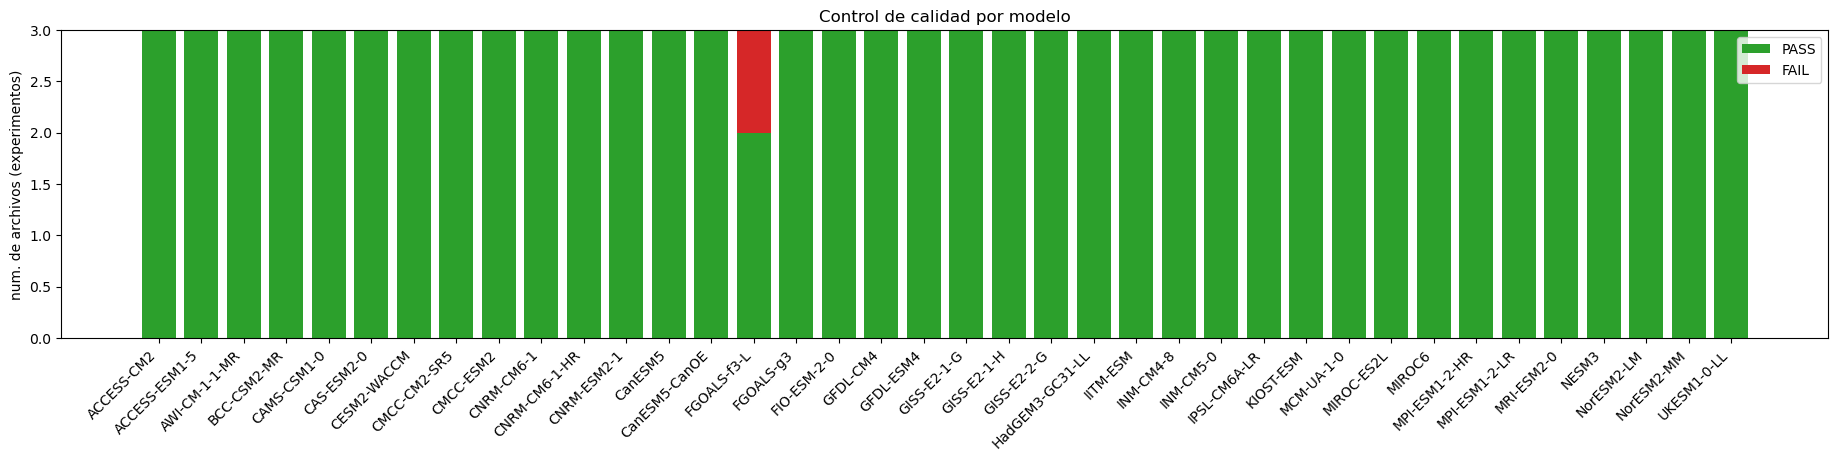
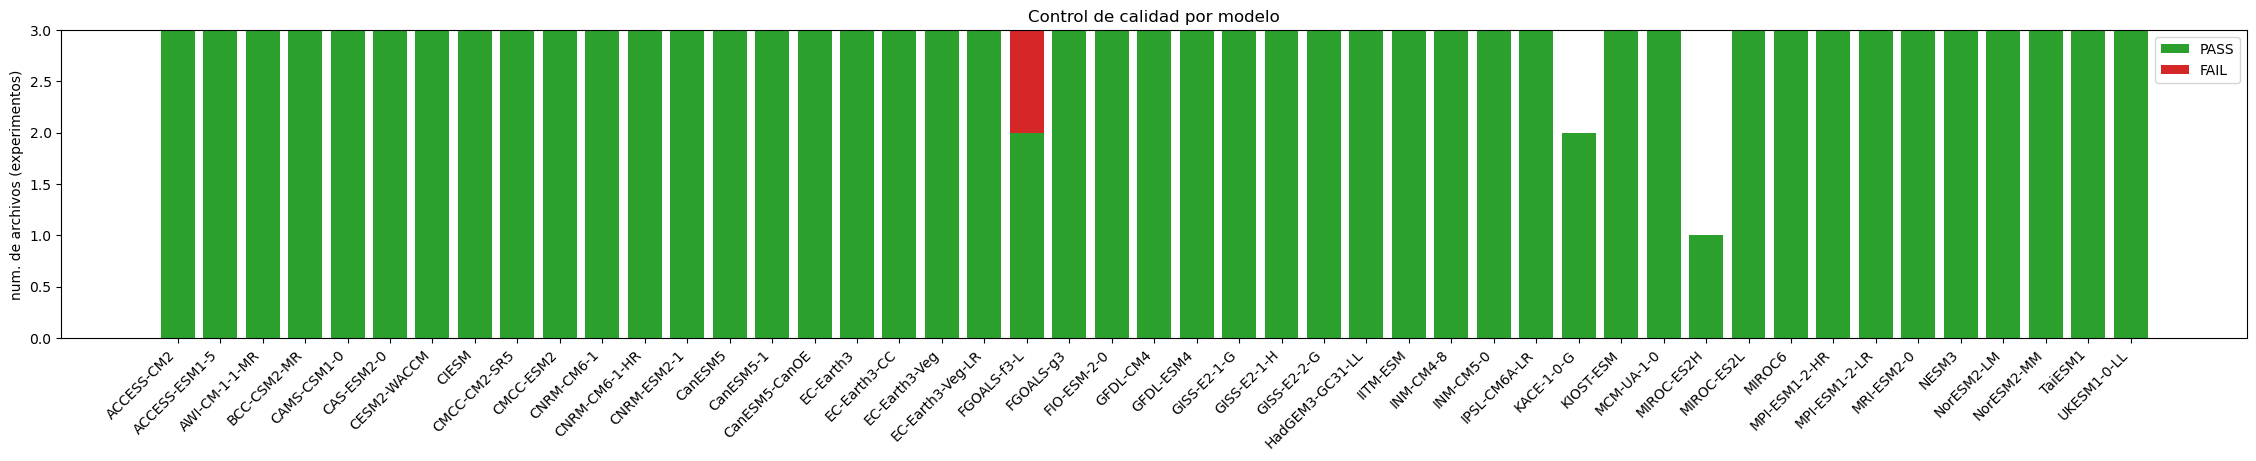
Reporte de estado por corrida, guardia contra descargas duplicadas, y fix de reprocesamiento espurio
run.sh ahora, en cada corrida (sin importar STEP_FROM/STEP_TO), escribe
logs/run_report_<timestamp>.txt con: modelos completamente descargados,
con descarga parcial, ya procesados, descargados-pero-sin-procesar, y
pendientes via fuentes alternativas (no_encontrado / copernicus_parcial).

El paso 02 se invoca via scripts/run_download_if_idle.sh: si ya hay una
descarga corriendo en otro proceso, no lanza otra -- se puede correr
run.sh mientras una descarga anterior sigue en curso sin duplicarla.

Dos fixes de fondo:
- 02_download_cmip6_chunks.sh: el chequeo de idempotencia verificaba
  solo que el archivo existiera ([-f]), no que tuviera contenido. Un
  wget interrumpido a la fuerza podia dejar un .nc de 0 bytes que
  quedaba marcado como "ya descargado" para siempre. Ahora usa [-s]
  (existe y no esta vacio).
- 04_process_to_common_grid.sh: por defecto (sin MODELS explicito) solo
  procesa modelos 'complete=True' del catalogo. Antes procesaba
  cualquier carpeta bajo data/raw/cmip6/, incluyendo descargas
  parciales via Copernicus (CESM2, CMCC-CM2-HR4) que nunca podran
  seleccionarse por faltarles al menos un experimento, y que ademas
  abortaban el pipeline entero por venir con metadatos de malla
  incompletos ('Unsupported generic coordinates').

Probado de punta a punta: run.sh 04 07 sin ningun filtro manual corre
limpio (45/45 modelos completos procesados, 0 reprocesos, reporte
generado al final).

diff --git a/scripts/generate_status_report.py b/scripts/generate_status_report.py
@@ -1,0 +1,87 @@
+#!/usr/bin/env python3
+"""Genera un reporte de estado en texto plano al final de cada corrida
+de run.sh (paso final, se ejecuta siempre, sin importar STEP_FROM/
+STEP_TO). Deja constancia de que modelos ya estan descargados,
+descargados-pero-sin-procesar, procesados, y pendientes via fuentes
+alternativas -- para no tener que adivinar el estado del pipeline entre
+corridas.
+
+Uso:
+    generate_status_report.py <catalog_csv> <raw_dir> <interim_dir>
+        <masked_dir> <out_txt> <start_ts> <end_ts> [--downloading]
+"""
+import csv
+import sys
+from pathlib import Path
+
+EXPS = ("historical", "ssp245", "ssp585")
+
+
+def main() -> None:
+    (catalog_csv, raw_dir, _interim_dir, masked_dir,
+     out_txt, start_ts, end_ts) = sys.argv[1:8]
+    downloading = "--downloading" in sys.argv[8:]
+
+    with open(catalog_csv, newline="") as f:
+        rows = list(csv.DictReader(f))
+
+    complete_models = sorted(r["model"] for r in rows if r.get("complete") == "True")
+    no_encontrado = sorted(r["model"] for r in rows if r.get("fuente") == "no_encontrado")
+    copernicus_parcial = sorted(r["model"] for r in rows if r.get("fuente") == "copernicus_parcial")
+
+    downloaded_full, downloaded_partial, not_downloaded = [], [], []
+    for model in complete_models:
+        model_dir = Path(raw_dir) / model
+        n_present = sum(
+            1 for exp in EXPS
+            if (model_dir / exp).is_dir() and any((model_dir / exp).glob("*.nc"))
+        )
+        if n_present == len(EXPS):
+            downloaded_full.append(model)
+        elif n_present > 0:
+            downloaded_partial.append(model)
+        else:
+            not_downloaded.append(model)
+
+    masked_dir_path = Path(masked_dir)
+    processed = []
+    pending_process = []
+    for model in downloaded_full:
+        n_masked = sum(1 for exp in EXPS if (masked_dir_path / f"tos_{model}_{exp}.nc").exists())
+        if n_masked == len(EXPS):
+            processed.append(model)
+        else:
+            pending_process.append(model)
+
+    def section(title: str, items: list[str]) -> list[str]:
+        out = [f"{title}: {len(items)}"]
+        out += [f"  {m}" for m in items]
+        out.append("")
+        return out
+
+    lines = [
+        "Reporte de estado -- run.sh",
+        f"Inicio: {start_ts}",
+        f"Fin:    {end_ts}",
+        "",
+        f"Descarga ya en curso en otro proceso al momento de esta corrida (no se lanzo otra): {'SI' if downloading else 'NO'}",
+        "",
+    ]
+    lines += section("Modelos completamente descargados (3/3 experimentos)", downloaded_full)
+    lines += section("Modelos con descarga parcial (1-2 de 3 experimentos)", downloaded_partial)
+    lines += section("Modelos descargados y ya procesados (data/processed/masked)", processed)
+    lines += section("Modelos descargados pero AUN sin procesar (se procesan en el proximo 04-07)", pending_process)
+    lines += section("Modelos no encontrados en ESGF (candidatos a 02b/02c en la proxima corrida)", no_encontrado)
+    lines += section("Modelos con descarga parcial via Copernicus CDS", copernicus_parcial)
+
+    Path(out_txt).write_text("\n".join(lines) + "\n")
+    print(f"Reporte de estado escrito en {out_txt}", file=sys.stderr)
+
+
+if __name__ == "__main__":
+    if len(sys.argv) < 8:
+        sys.exit(
+            "uso: generate_status_report.py <catalog_csv> <raw_dir> <interim_dir> "
+            "<masked_dir> <out_txt> <start_ts> <end_ts> [--downloading]"
+        )
+    main()
